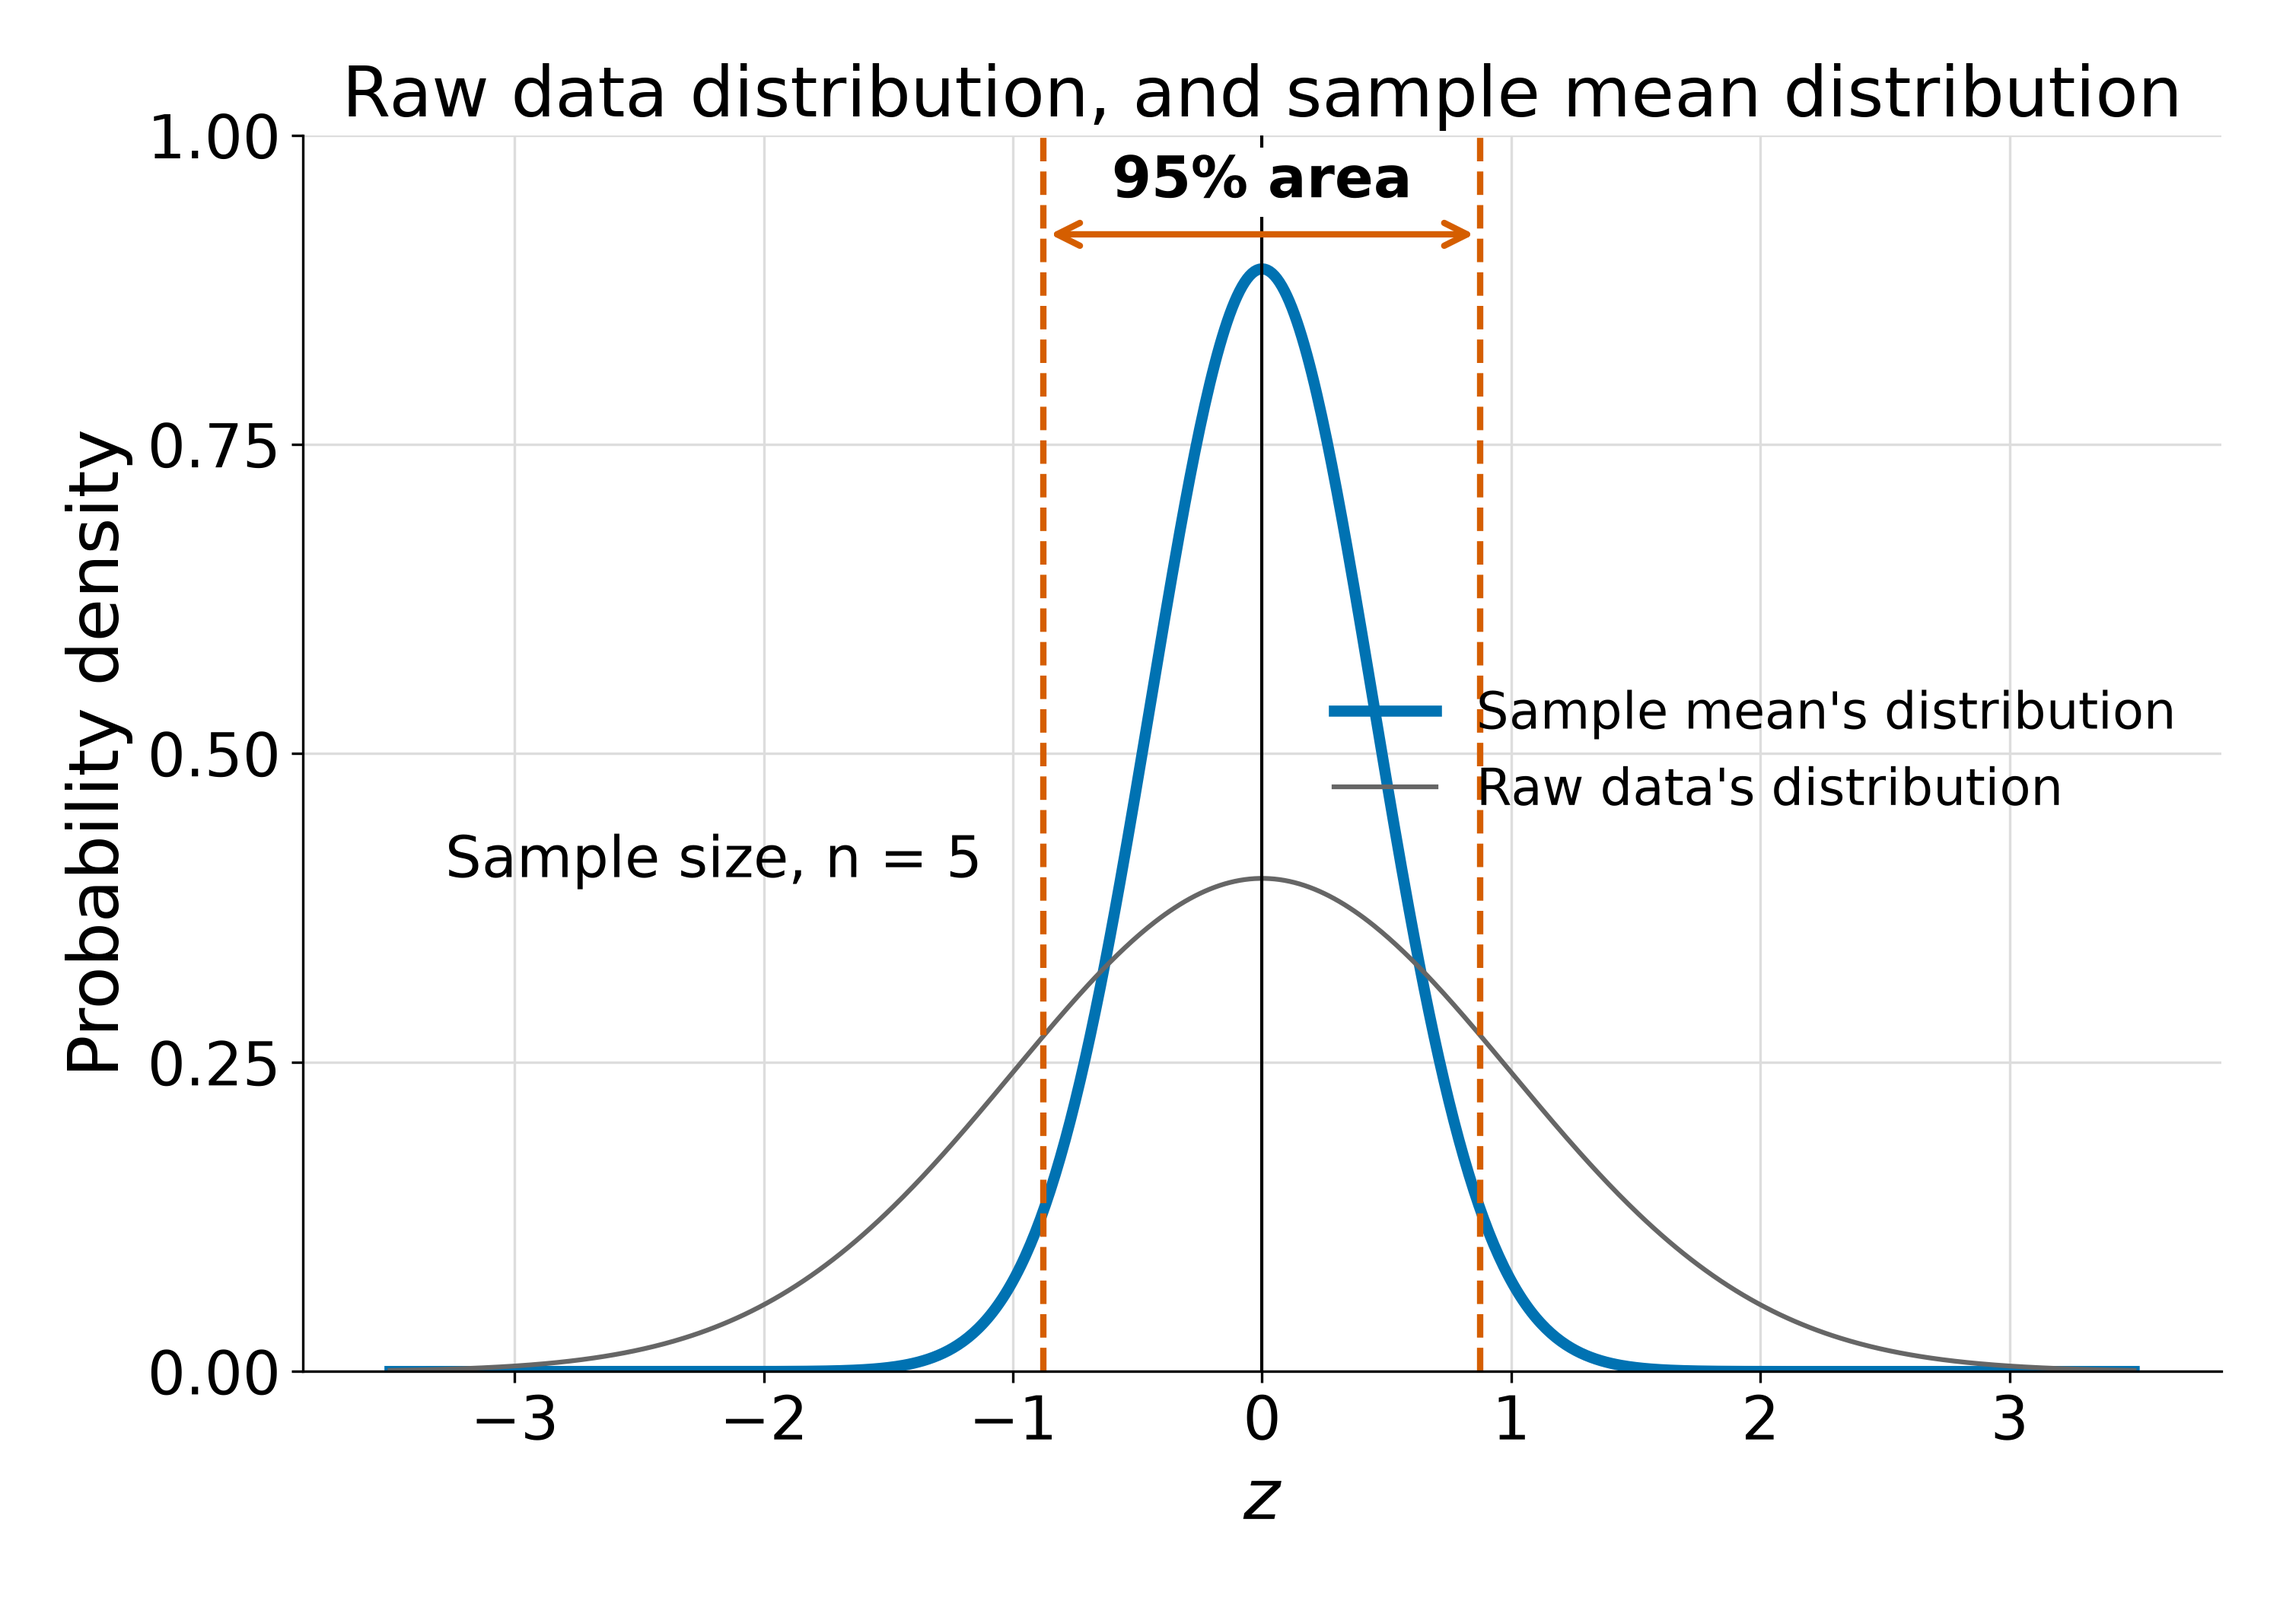
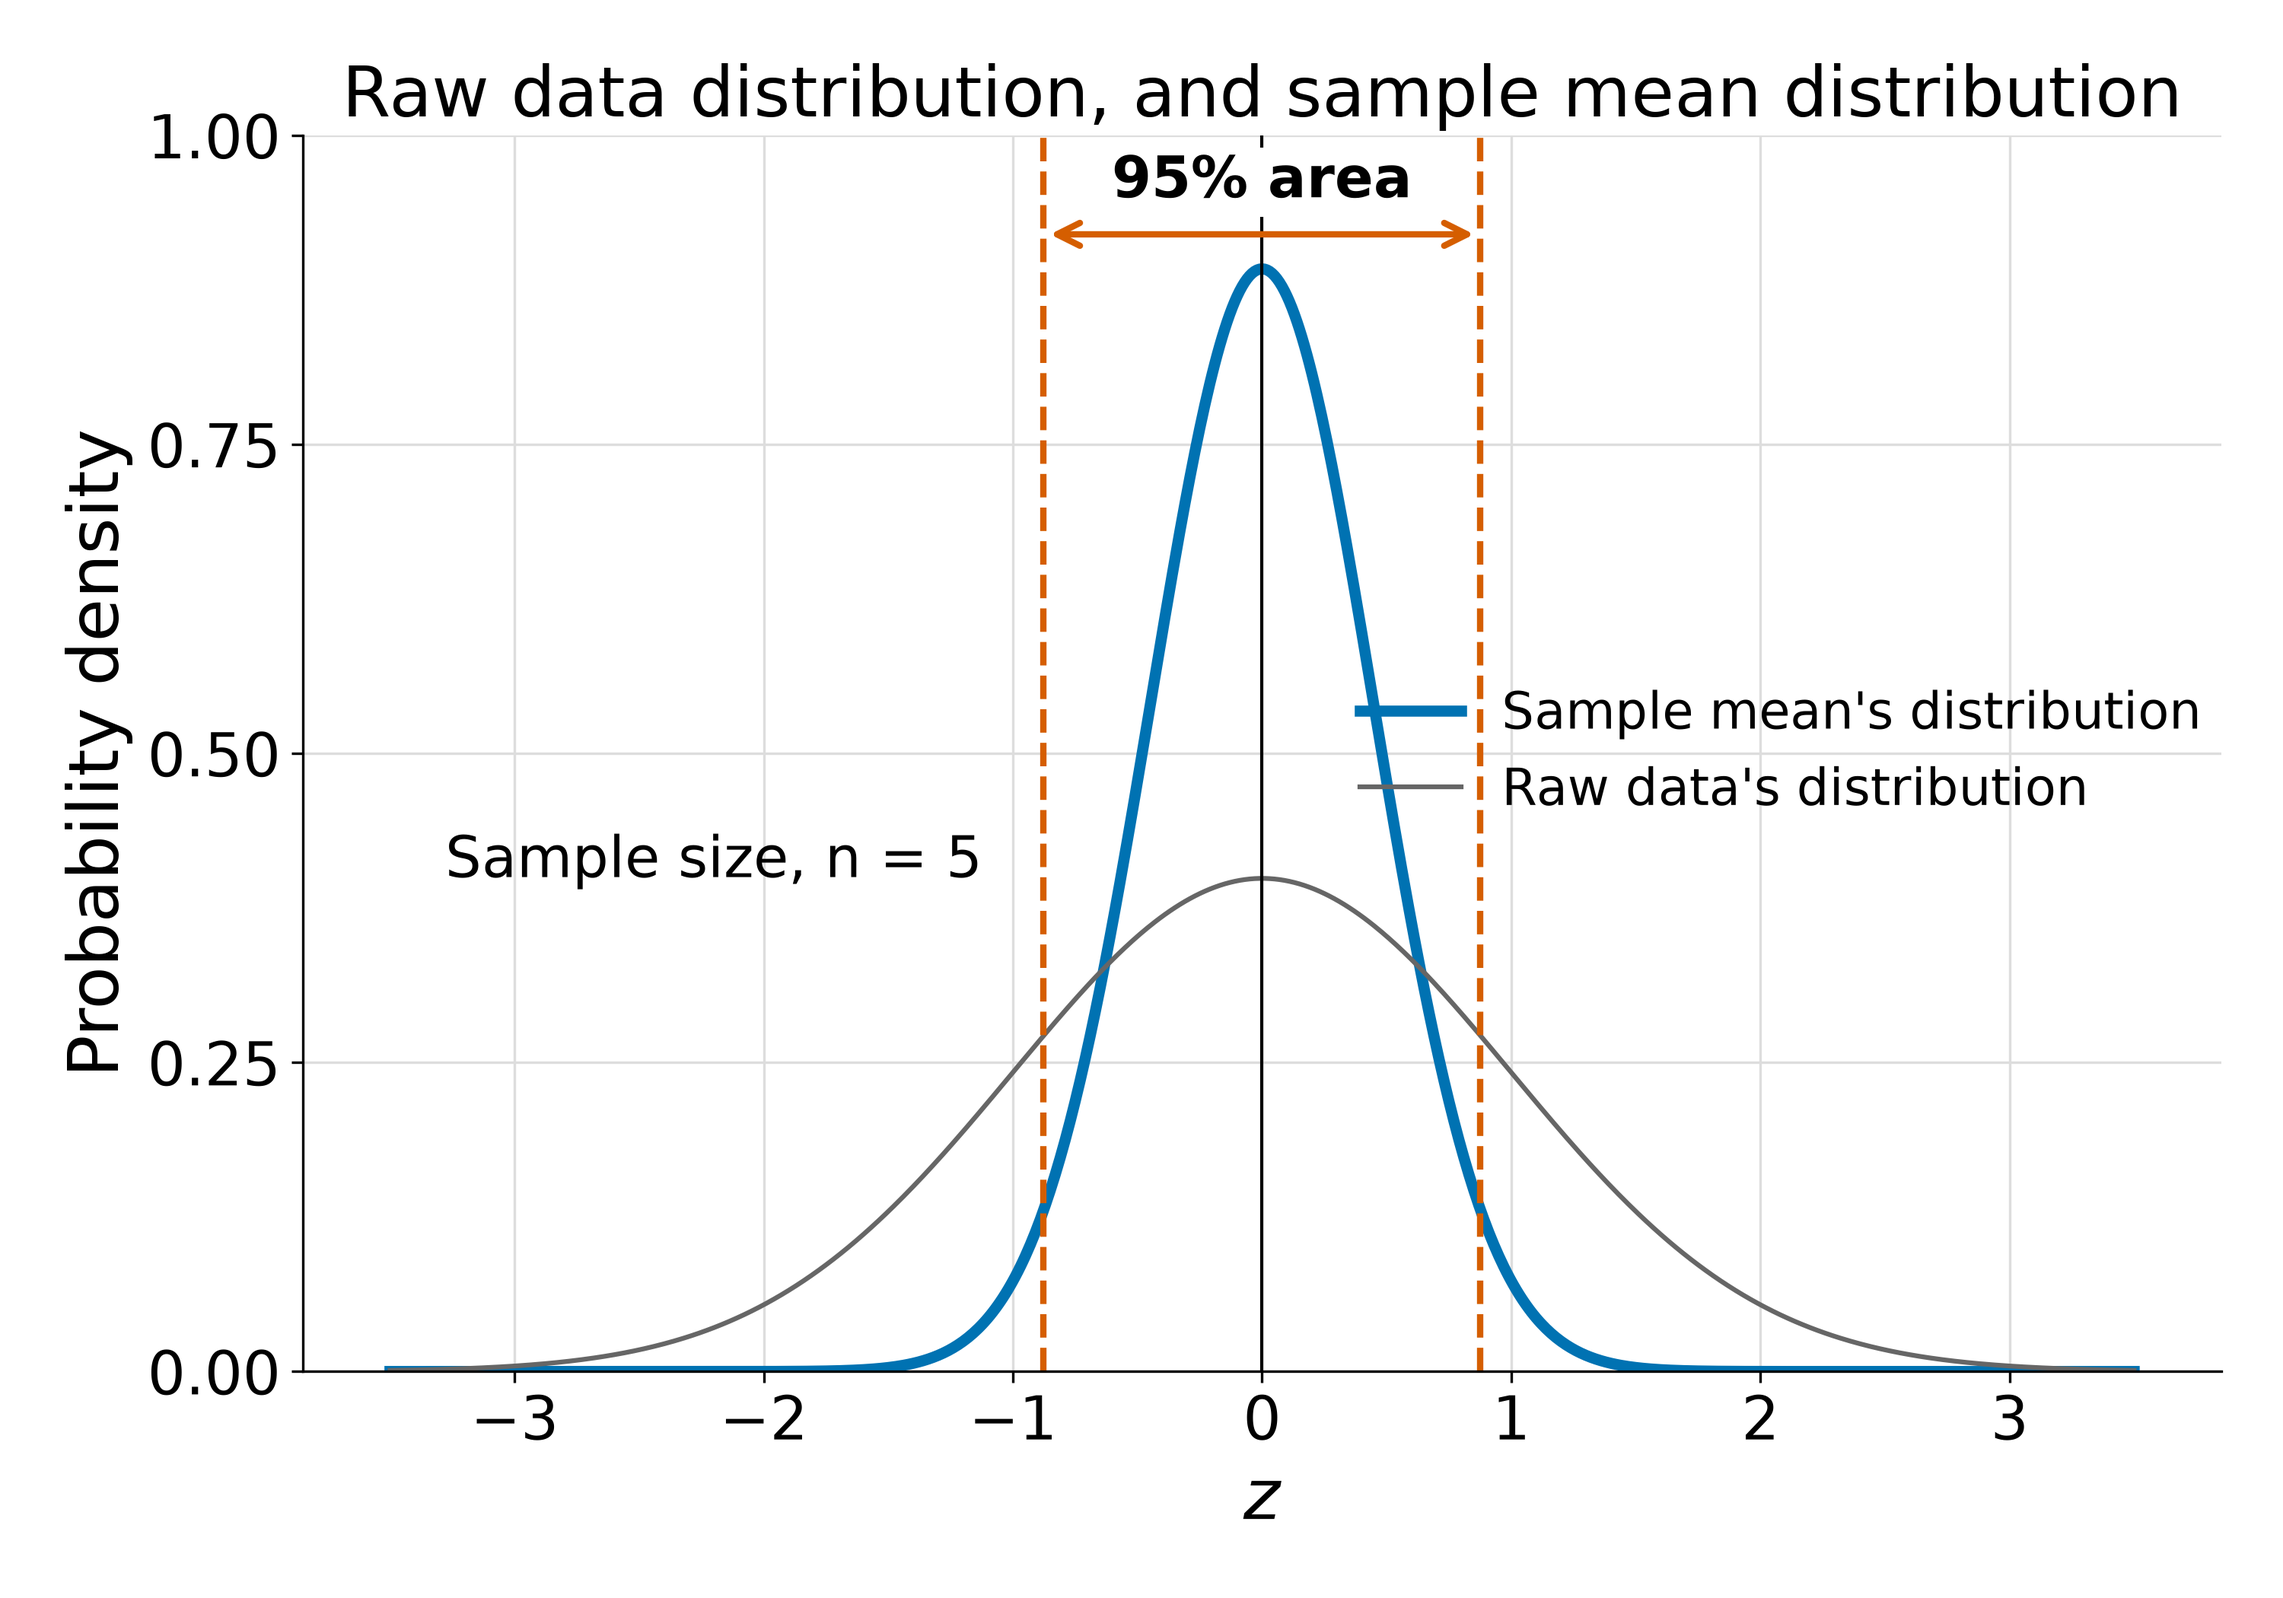
Polish three normal-distribution figures after review
- explain-confidence-interval-normalized.png: nudge the legend to the
  right edge of the axes, clear of the 95%-area verticals.
- normal-distribution-standardized.png: detach the x and y axis lines
  from the plotting area (20-point outward offset), as the base-R
  original drew them; the 3-sigma arrow no longer sits on the x axis.
- qqplot-from-R.png: keep the y axis spanning just the data (66 to 98),
  as R drew it; the wide confidence envelope is clipped rather than
  stretching the axis.

Claude-Session: https://claude.ai/code/session_013gbucEbmko1QaQPZDrjLhx

Changed region(s): [[0.62, 0.4333, 0.961, 0.5262]]

diff --git a/univariate/normal_distribution_figures.py b/univariate/normal_distribution_figures.py
@@ -120,6 +120,10 @@ def standardized_normal(outdir: pathlib.Path) -> None:
     x = np.linspace(-3.8, 3.8, 761)
     px = stats.norm.pdf(x)
     fig, ax = plt.subplots(figsize=(14, 7))
+    # Detach the axes from the plotting area, as the base-R original
+    # did: it keeps the 3-sigma arrow clear of the x-axis line.
+    ax.spines["left"].set_position(("outward", 20))
+    ax.spines["bottom"].set_position(("outward", 20))
     ax.plot(x, px, color=BLUE, linewidth=2.5)
     ax.axvline(0, color="black", linewidth=1)
     for k in (1, 2, 3):
@@ -240,6 +244,9 @@ def qq_basic_and_envelope(outdir: pathlib.Path) -> None:
     axes[1].plot(theo, lower, color=VERMILLION, linestyle="--", linewidth=1.5)
     axes[1].plot(theo, upper, color=VERMILLION, linestyle="--", linewidth=1.5)
     axes[1].set_title("With a 95% confidence envelope")
+    # Keep the y-axis spanning just the data, as R drew it; the wide
+    # confidence envelope is clipped rather than stretching the axis.
+    axes[0].set_ylim(66, 98)
     save(fig, outdir, "qqplot-from-R.png")
 
 
@@ -278,7 +285,8 @@ def qq_comparison(outdir: pathlib.Path) -> None:
     save(fig, outdir, "qqplot-comparison.png")
 
 
-def _two_distributions(ax, x, base_mean, base_sd, n, legend_loc="upper left"):
+def _two_distributions(ax, x, base_mean, base_sd, n, legend_loc="upper left",
+                       legend_pad=None):
     raw = stats.norm.pdf(x, loc=base_mean, scale=base_sd)
     sample = stats.norm.pdf(x, loc=base_mean, scale=base_sd / np.sqrt(n))
     ax.grid(color=GRID, linewidth=0.8)
@@ -286,7 +294,8 @@ def _two_distributions(ax, x, base_mean, base_sd, n, legend_loc="upper left"):
             label="Sample mean's distribution")
     ax.plot(x, raw, color=GREY, linewidth=1.5, label="Raw data's distribution")
     ax.axvline(base_mean, color="black", linewidth=1)
-    ax.legend(loc=legend_loc, frameon=False, fontsize=16)
+    kwargs = {} if legend_pad is None else {"borderaxespad": legend_pad}
+    ax.legend(loc=legend_loc, frameon=False, fontsize=16, **kwargs)
 
 
 def explain_confidence_interval(outdir: pathlib.Path) -> None:
@@ -306,7 +315,8 @@ def explain_confidence_interval(outdir: pathlib.Path) -> None:
     # Standardized version, with the 95% area between the critical values.
     fig, ax = plt.subplots(figsize=(10, 7))
     x = np.linspace(-3.5, 3.5, 701)
-    _two_distributions(ax, x, 0, 1, n, legend_loc="center right")
+    _two_distributions(ax, x, 0, 1, n, legend_loc="center right",
+                       legend_pad=0)
     ax.text(-2.2, 0.4, f"Sample size, n = {n}", ha="center")
     upper = stats.norm.ppf(0.975) / np.sqrt(n)
     for v in (-upper, upper):
